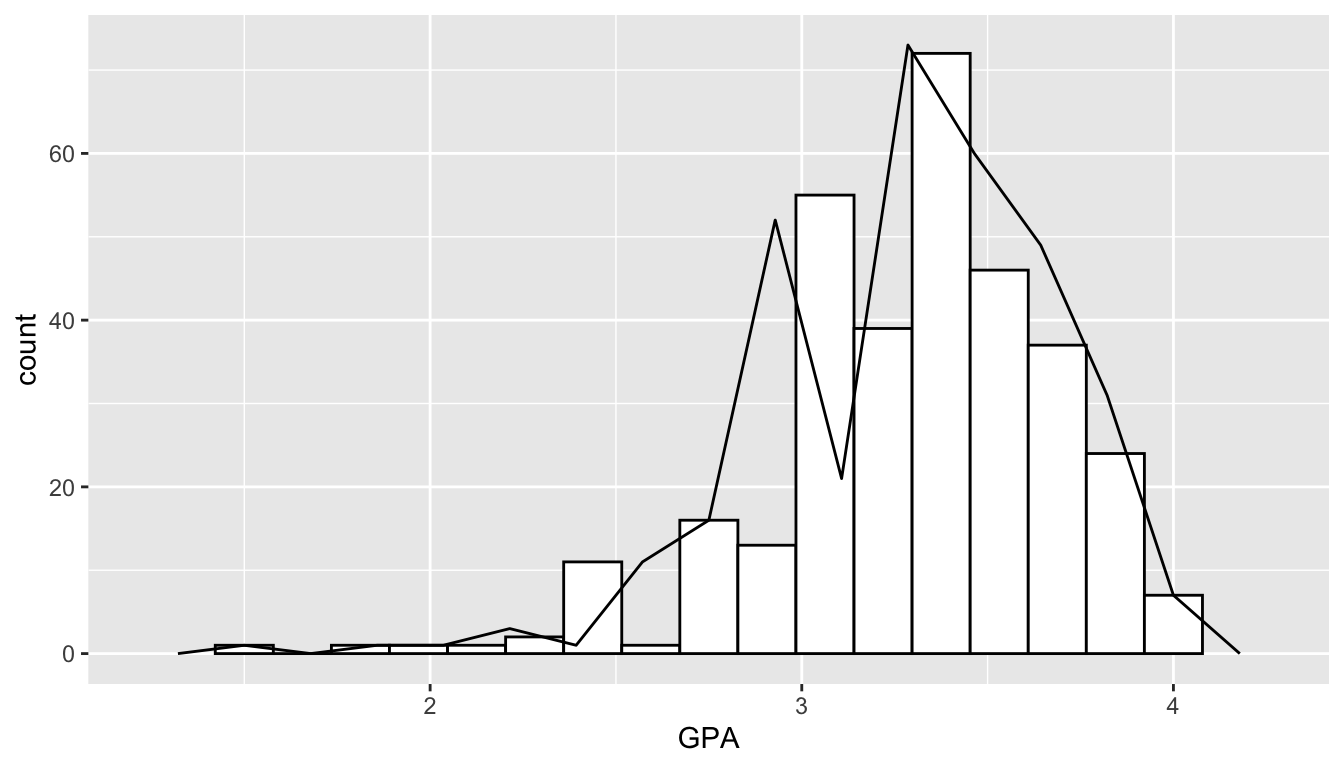
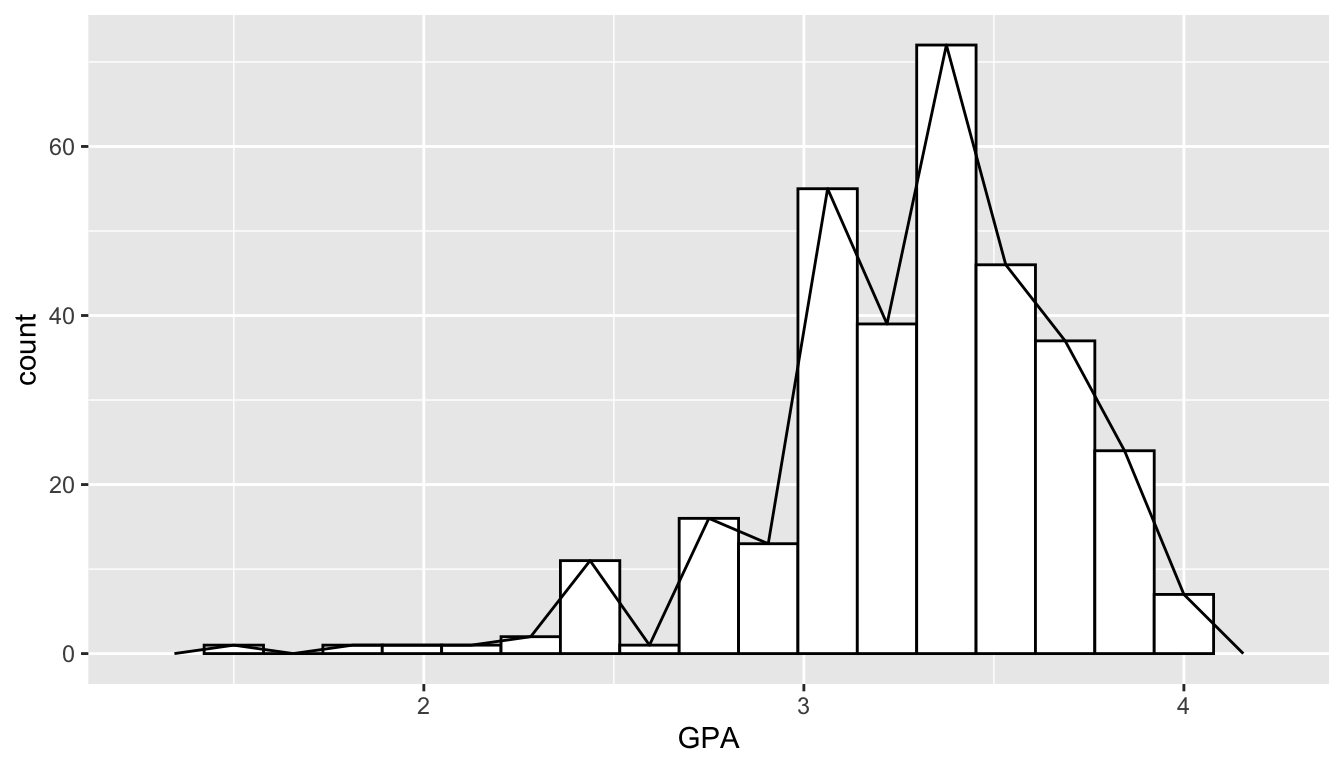
minor tweaks and edits.

diff --git a/docs/02-ggplot2.html b/docs/02-ggplot2.html
@@ -462,7 +462,7 @@ Note
 </div>
 <div class="cell" data-appendix="true">
 <div class="sourceCode" id="cb5"><pre class="downlit sourceCode r code-with-copy"><code class="sourceCode R"><span><span class="fu"><a href="https://ggplot2.tidyverse.org/reference/ggplot.html">ggplot</a></span><span class="op">(</span>data <span class="op">=</span> <span class="va">stat113_df</span>, <span class="fu"><a href="https://ggplot2.tidyverse.org/reference/aes.html">aes</a></span><span class="op">(</span>x <span class="op">=</span> <span class="va">GPA</span><span class="op">)</span><span class="op">)</span> <span class="op">+</span></span>
-<span>  <span class="fu"><a href="https://ggplot2.tidyverse.org/reference/geom_histogram.html">geom_freqpoly</a></span><span class="op">(</span>bins <span class="op">=</span> <span class="fl">15</span><span class="op">)</span></span></code><button title="Copy to Clipboard" class="code-copy-button"><i class="bi"></i></button></pre></div>
+<span>  <span class="fu"><a href="https://ggplot2.tidyverse.org/reference/geom_histogram.html">geom_freqpoly</a></span><span class="op">(</span>bins <span class="op">=</span> <span class="fl">17</span><span class="op">)</span></span></code><button title="Copy to Clipboard" class="code-copy-button"><i class="bi"></i></button></pre></div>
 <div class="cell-output-display">
 <div>
 <figure class="figure"><p><img src="02-ggplot2_files/figure-html/unnamed-chunk-6-1.png" class="img-fluid figure-img" width="672"></p>
@@ -487,7 +487,7 @@ Important
 <div class="cell" data-appendix="true">
 <div class="sourceCode" id="cb6"><pre class="downlit sourceCode r code-with-copy"><code class="sourceCode R"><span><span class="fu"><a href="https://ggplot2.tidyverse.org/reference/ggplot.html">ggplot</a></span><span class="op">(</span>data <span class="op">=</span> <span class="va">stat113_df</span>, <span class="fu"><a href="https://ggplot2.tidyverse.org/reference/aes.html">aes</a></span><span class="op">(</span>x <span class="op">=</span> <span class="va">GPA</span><span class="op">)</span><span class="op">)</span> <span class="op">+</span></span>
 <span>    <span class="fu"><a href="https://ggplot2.tidyverse.org/reference/geom_histogram.html">geom_histogram</a></span><span class="op">(</span>colour <span class="op">=</span> <span class="st">"black"</span>, fill <span class="op">=</span> <span class="st">"white"</span>, bins <span class="op">=</span> <span class="fl">17</span><span class="op">)</span> <span class="op">+</span></span>
-<span>    <span class="fu"><a href="https://ggplot2.tidyverse.org/reference/geom_histogram.html">geom_freqpoly</a></span><span class="op">(</span>bins <span class="op">=</span> <span class="fl">15</span><span class="op">)</span></span></code><button title="Copy to Clipboard" class="code-copy-button"><i class="bi"></i></button></pre></div>
+<span>    <span class="fu"><a href="https://ggplot2.tidyverse.org/reference/geom_histogram.html">geom_freqpoly</a></span><span class="op">(</span>bins <span class="op">=</span> <span class="fl">17</span><span class="op">)</span></span></code><button title="Copy to Clipboard" class="code-copy-button"><i class="bi"></i></button></pre></div>
 <div class="cell-output-display">
 <div>
 <figure class="figure"><p><img src="02-ggplot2_files/figure-html/unnamed-chunk-7-1.png" class="img-fluid figure-img" width="672"></p>
@@ -497,7 +497,7 @@ Important
 </div>
 <p><strong>Exercise 1</strong>. Change the variable being plotted in the earlier histogram from <code>GPA</code> to another variable in the data set. Note that the variable must be quantitative. The variable names were given earlier in this section, but you can also see the variable names if you type in <code>stat113_df</code> in your bottom left window. Also, you can run <code>names(stat113_df)</code> in your bottom left window of <code>R Studio</code> to obtain all of the variable names in the <code>stat113_df</code> data frame.</p>
 <p><strong>Exercise 2</strong>. In the histogram you just created, change the <code>colour</code> of the histogram to be <code>"dodgerblue4"</code> and the <code>fill</code> of the histogram to be <code>"dodgerblue1"</code>.</p>
-<p><strong>Exercise 3</strong>. There are a lot of named colours that you can use in <code>R</code>. After looking through some at <a href="http://www.stat.columbia.edu/~tzheng/files/Rcolor.pdf" target="_blank">http://www.stat.columbia.edu/~tzheng/files/Rcolor.pdf</a>, change the <code>colour</code> and <code>fill</code> of the histogram again to be colours of your choice.</p>
+<p><strong>Exercise 3</strong>. There are a lot of named colours that you can use in <code>R</code>. After looking through some at <a href="https://www.stat.auckland.ac.nz/~ihaka/downloads/R-colours-a4.pdf" target="_blank">https://www.stat.auckland.ac.nz/~ihaka/downloads/R-colours-a4.pdf</a>, change the <code>colour</code> and <code>fill</code> of the histogram again to be colours of your choice.</p>
 </section><section id="single-categorical-variable" class="level3" data-number="2.3.2"><h3 data-number="2.3.2" class="anchored" data-anchor-id="single-categorical-variable">
 <span class="header-section-number">2.3.2</span> Single Categorical Variable</h3>
 <p>The most common graph for visualizing a single categorical variable is a <strong>bar plot</strong>. The following code makes a bar plot with the <code>SocialMedia</code> variable from the STAT 113 survey. Keep in mind that the data is from 2018 - 2019, before the explosion of Tik Tok!</p>

diff --git a/docs/11-lubridate.html b/docs/11-lubridate.html
@@ -329,9 +329,9 @@ pre > code.sourceCode > span > a:first-child::before { text-decoration: underlin
 <div class="sourceCode" id="cb1"><pre class="downlit sourceCode r code-with-copy"><code class="sourceCode R"><span><span class="kw"><a href="https://rdrr.io/r/base/library.html">library</a></span><span class="op">(</span><span class="va"><a href="https://tidyverse.tidyverse.org">tidyverse</a></span><span class="op">)</span></span>
 <span><span class="kw"><a href="https://rdrr.io/r/base/library.html">library</a></span><span class="op">(</span><span class="va"><a href="https://lubridate.tidyverse.org">lubridate</a></span><span class="op">)</span></span>
 <span><span class="fu"><a href="https://lubridate.tidyverse.org/reference/now.html">today</a></span><span class="op">(</span><span class="op">)</span></span>
-<span><span class="co">#&gt; [1] "2026-01-08"</span></span>
+<span><span class="co">#&gt; [1] "2026-01-15"</span></span>
 <span><span class="fu"><a href="https://lubridate.tidyverse.org/reference/now.html">now</a></span><span class="op">(</span><span class="op">)</span></span>
-<span><span class="co">#&gt; [1] "2026-01-08 08:38:40 EST"</span></span></code><button title="Copy to Clipboard" class="code-copy-button"><i class="bi"></i></button></pre></div>
+<span><span class="co">#&gt; [1] "2026-01-15 10:48:02 EST"</span></span></code><button title="Copy to Clipboard" class="code-copy-button"><i class="bi"></i></button></pre></div>
 </div>
 <p>This first section will deal with how to convert a variable in <code>R</code> to be a <code>Date</code>. We will use a data set that has the holidays of Animal Crossing from January to April. The columns in this data set are:</p>
 <ul>
@@ -549,7 +549,7 @@ Note
 <p>returns <code>309</code>, indicating that November 4th is the 309th day of the year 2020. Using this function in a <code><a href="https://dplyr.tidyverse.org/reference/mutate.html">mutate()</a></code> statement creates a new variable that has <code>yday</code> for each observation:</p>
 <div class="cell" data-appendix="true">
 <div class="sourceCode" id="cb13"><pre class="downlit sourceCode r code-with-copy"><code class="sourceCode R"><span><span class="va">stocks_long</span> <span class="op">|&gt;</span> <span class="fu"><a href="https://dplyr.tidyverse.org/reference/mutate.html">mutate</a></span><span class="op">(</span>day_in_year <span class="op">=</span> <span class="fu"><a href="https://lubridate.tidyverse.org/reference/day.html">yday</a></span><span class="op">(</span><span class="va">date</span><span class="op">)</span><span class="op">)</span></span>
-<span><span class="co">#&gt; # A tibble: 10,073 × 9</span></span>
+<span><span class="co">#&gt; # A tibble: 10,092 × 9</span></span>
 <span><span class="co">#&gt;   symbol date        open  high   low close    volume adjusted day_in_year</span></span>
 <span><span class="co">#&gt;   &lt;chr&gt;  &lt;date&gt;     &lt;dbl&gt; &lt;dbl&gt; &lt;dbl&gt; &lt;dbl&gt;     &lt;dbl&gt;    &lt;dbl&gt;       &lt;dbl&gt;</span></span>
 <span><span class="co">#&gt; 1 AAPL   2016-01-04  25.7  26.3  25.5  26.3 270597600     23.8           4</span></span>
@@ -558,7 +558,7 @@ Note
 <span><span class="co">#&gt; 4 AAPL   2016-01-07  24.7  25.0  24.1  24.1 324377600     21.7           7</span></span>
 <span><span class="co">#&gt; 5 AAPL   2016-01-08  24.6  24.8  24.2  24.2 283192000     21.9           8</span></span>
 <span><span class="co">#&gt; 6 AAPL   2016-01-11  24.7  24.8  24.3  24.6 198957600     22.2          11</span></span>
-<span><span class="co">#&gt; # ℹ 10,067 more rows</span></span></code><button title="Copy to Clipboard" class="code-copy-button"><i class="bi"></i></button></pre></div>
+<span><span class="co">#&gt; # ℹ 10,086 more rows</span></span></code><button title="Copy to Clipboard" class="code-copy-button"><i class="bi"></i></button></pre></div>
 </div>
 <p>Finally, the function <code><a href="https://lubridate.tidyverse.org/reference/day.html">wday()</a></code> grabs the day of the week from a <code>&lt;date&gt;</code>. By default, <code><a href="https://lubridate.tidyverse.org/reference/day.html">wday()</a></code> puts the day of the week as a numeric, but I find this confusing, as I can’t ever remember whether a <code>1</code> means <code>Sunday</code> or a <code>1</code> means <code>Monday</code>. Adding, <code>label = TRUE</code> creates the weekday variable as <code>Sunday</code>, <code>Monday</code>, <code>Tuesday</code>, etc.:</p>
 <div class="cell" data-appendix="true">

diff --git a/docs/01-intro.html b/docs/01-intro.html
@@ -1002,7 +1002,7 @@ format:
 <li><p>Take a moment to scroll through the advice from students who took this course in the Spring semester of 2024. What is one piece of advice that you hope to apply to our course this semester?</p></li>
 </ol>
 <p><br></p>
-<p>Render your .qmd file into an .html file and submit your rendered .html file to Canvas in the “Practice Submission” Assignment. If your file won’t render, then submit the .qmd file instead.</p>
+<p>Render your .qmd file into an .html file and submit your rendered .html file to Canvas.</p>
 <p>Nice work: we will dive into <code><a href="https://ggplot2.tidyverse.org/reference/ggplot.html">ggplot()</a></code> in the <code>ggplot2</code> package next!</p>
 <p><br></p>
 
